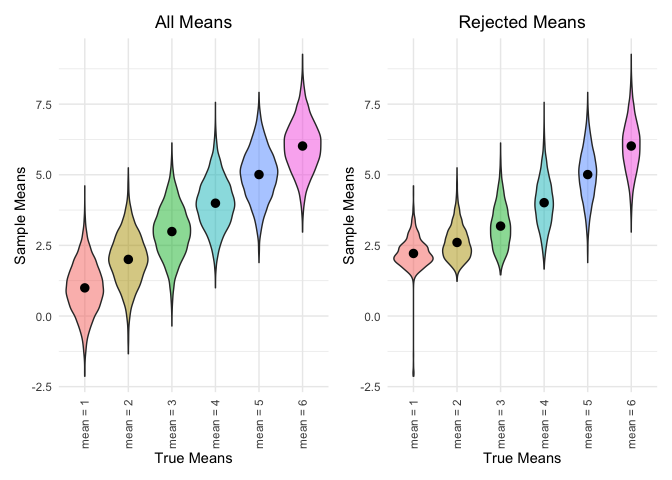
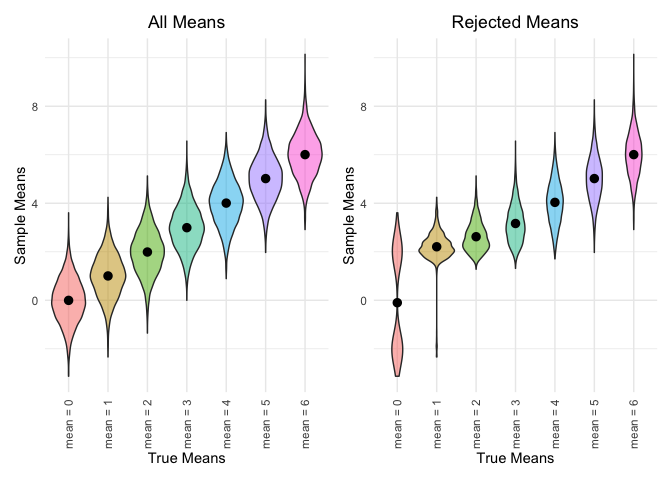
added 0 to means after office hours, facet grid for #2

diff --git a/p8105_hw5_ll3344.md b/p8105_hw5_ll3344.md
@@ -11,14 +11,14 @@ Load necessary
 library(tidyverse)
 ```
 
-    ## ── Attaching packages ──────────────────────────────────────────────────────────────────────────────────────── tidyverse 1.3.0 ──
+    ## ── Attaching packages ──────────────────────────────────────────────────────────────────────────────────── tidyverse 1.3.0 ──
 
     ## ✓ ggplot2 3.3.2     ✓ purrr   0.3.4
     ## ✓ tibble  3.0.1     ✓ dplyr   1.0.2
     ## ✓ tidyr   1.1.0     ✓ stringr 1.4.0
     ## ✓ readr   1.3.1     ✓ forcats 0.5.0
 
-    ## ── Conflicts ─────────────────────────────────────────────────────────────────────────────────────────── tidyverse_conflicts() ──
+    ## ── Conflicts ─────────────────────────────────────────────────────────────────────────────────────── tidyverse_conflicts() ──
     ## x dplyr::filter() masks stats::filter()
     ## x dplyr::lag()    masks stats::lag()
 
@@ -452,10 +452,10 @@ Create a spaghetti plot showing observations on each subject over time.
 
 ``` r
 lga_df %>%
-  group_by(id) %>%
-  ggplot(aes(x = week, y = observations, color = id, group = id)) +
+  ggplot(aes(x = week, y = observations, color = id)) +
   geom_point() +
   geom_path() +
+  facet_grid(.~group) +
   scale_colour_viridis_d()
 ```
 
@@ -472,7 +472,10 @@ lga_df %>%
 #   )
 ```
 
-In general, the experimental arm has higher values for the observations.
+In general, the experimental arm has higher values for the observations
+and seems to increase over time whereas the control arm observations
+stayed relatively constant over time. This makes sense as most likely
+the control group was not receiving any intervention.
 
 ## Problem 3: Power
 
@@ -505,6 +508,7 @@ We will now repeat the above process for different means between 1-6.
 ``` r
 mean_list = 
   list(
+    "mean_0" = 0,
     "mean_1" = 1,
     "mean_2" = 2,
     "mean_3" = 3,
@@ -514,7 +518,7 @@ mean_list =
   )
 
 sim_vary_means = 
-  tibble(diff_means = c(1, 2, 3, 4, 5, 6)) %>%
+  tibble(diff_means = c(0, 1, 2, 3, 4, 5, 6)) %>%
   mutate(
     output_lists = map(.x = diff_means, ~rerun(5000, sim_mean_p(mean = .x))),
     estimate_dfs = map(output_lists, bind_rows)) %>%
@@ -583,17 +587,18 @@ rejected_means_p =
 all_means_p + rejected_means_p
 ```
 
-    ## Warning: Removed 6 rows containing missing values (geom_segment).
+    ## Warning: Removed 7 rows containing missing values (geom_segment).
     
-    ## Warning: Removed 6 rows containing missing values (geom_segment).
+    ## Warning: Removed 7 rows containing missing values (geom_segment).
 
 ![](p8105_hw5_ll3344_files/figure-gfm/unnamed-chunk-14-1.png)<!-- -->
 
-The second plot shows that the sample average of mu across tests for
-which the null is rejected is higher than the true mean for smaller true
-means but approaches the true mean as the true mean gets larger. This
-makes sense as almost all samples of true mean 6, for example, will be
-rejected. However, as we saw in the previous plot, for true mean of 1,
-only 20% of samples will be rejected and these samples will have a
-higher mean than 1. As the current plot shows, the mean of rejected
-samples falls around 2.5 with true mean 0.
+The second plot shows that for true mean = 0, the rejected values are
+either significantly larger or smaller than zero but the overall mean is
+0. This makes sense as these are the values at the extreme ends of the
+normal distribution but they are still centered around 0. For smaller
+true means \> 0, the sample average of mu across tests for which the
+null is rejected is higher than the true mean. However, as the true mean
+gets larger (and the effect size increases), the power to reject
+increases to almost 1 and nearly all the samples are rejected. Thus the
+rejected means and the true means converge.
